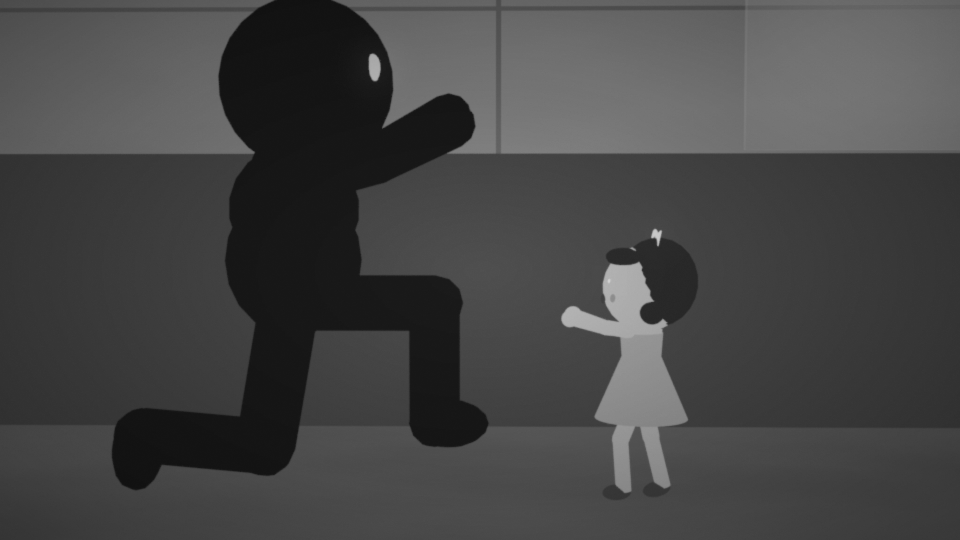
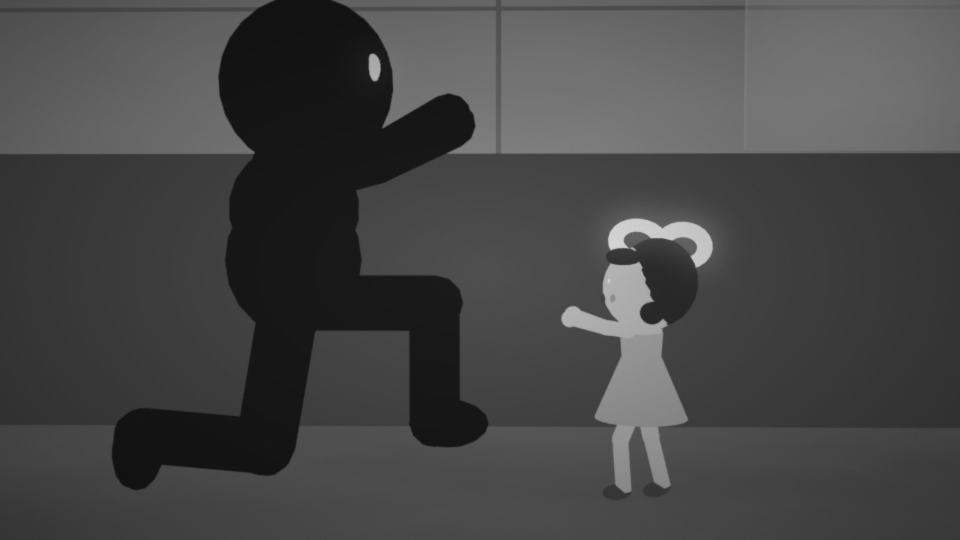
Maya's bow in the stills: larger, turned to the camera, seated on her head (re-render in progress)
Claude-Session: https://claude.ai/code/session_015hMH19Q3ffBpefttWAikbH

Changed region(s): [[0.625, 0.3852, 0.75, 0.5037]]

diff --git a/tools/blender/render_maya.py b/tools/blender/render_maya.py
@@ -153,7 +153,7 @@ def maya(pose, at, facing=1, size=0.6, smile="smile", eyes="open", hair="pigtail
                 face.append(sph(hc + Vector((-0.08, s * (0.27 + 0.04 * t), 0.06 - 0.18 * t)), 0.06 - 0.012 * t, RM.HAIR, mat=hm))
             face.append(sph(hc + Vector((-0.08, s * 0.25, 0.08)), 0.025, 0.95))                                 # bobbles
     # the ribbon, a satin bow on top (the loops twist, the knot gathers, the tails end in a V)
-    face.extend(ribbon_bow(hc + Vector((-0.04, 0, 0.27)), 0.13, (1, 0, 0.35), (0, 0, 1), F.flat(0.97)))
+    face.extend(ribbon_bow(hc + Vector((-0.06, 0, 0.255)), 0.26, (0, -1, 0.25), (0, 0, 1), F.flat(0.97)))
     to_bone(face, arm, "head")
     B.apply_pose(arm, pose)
     arm.location = at
